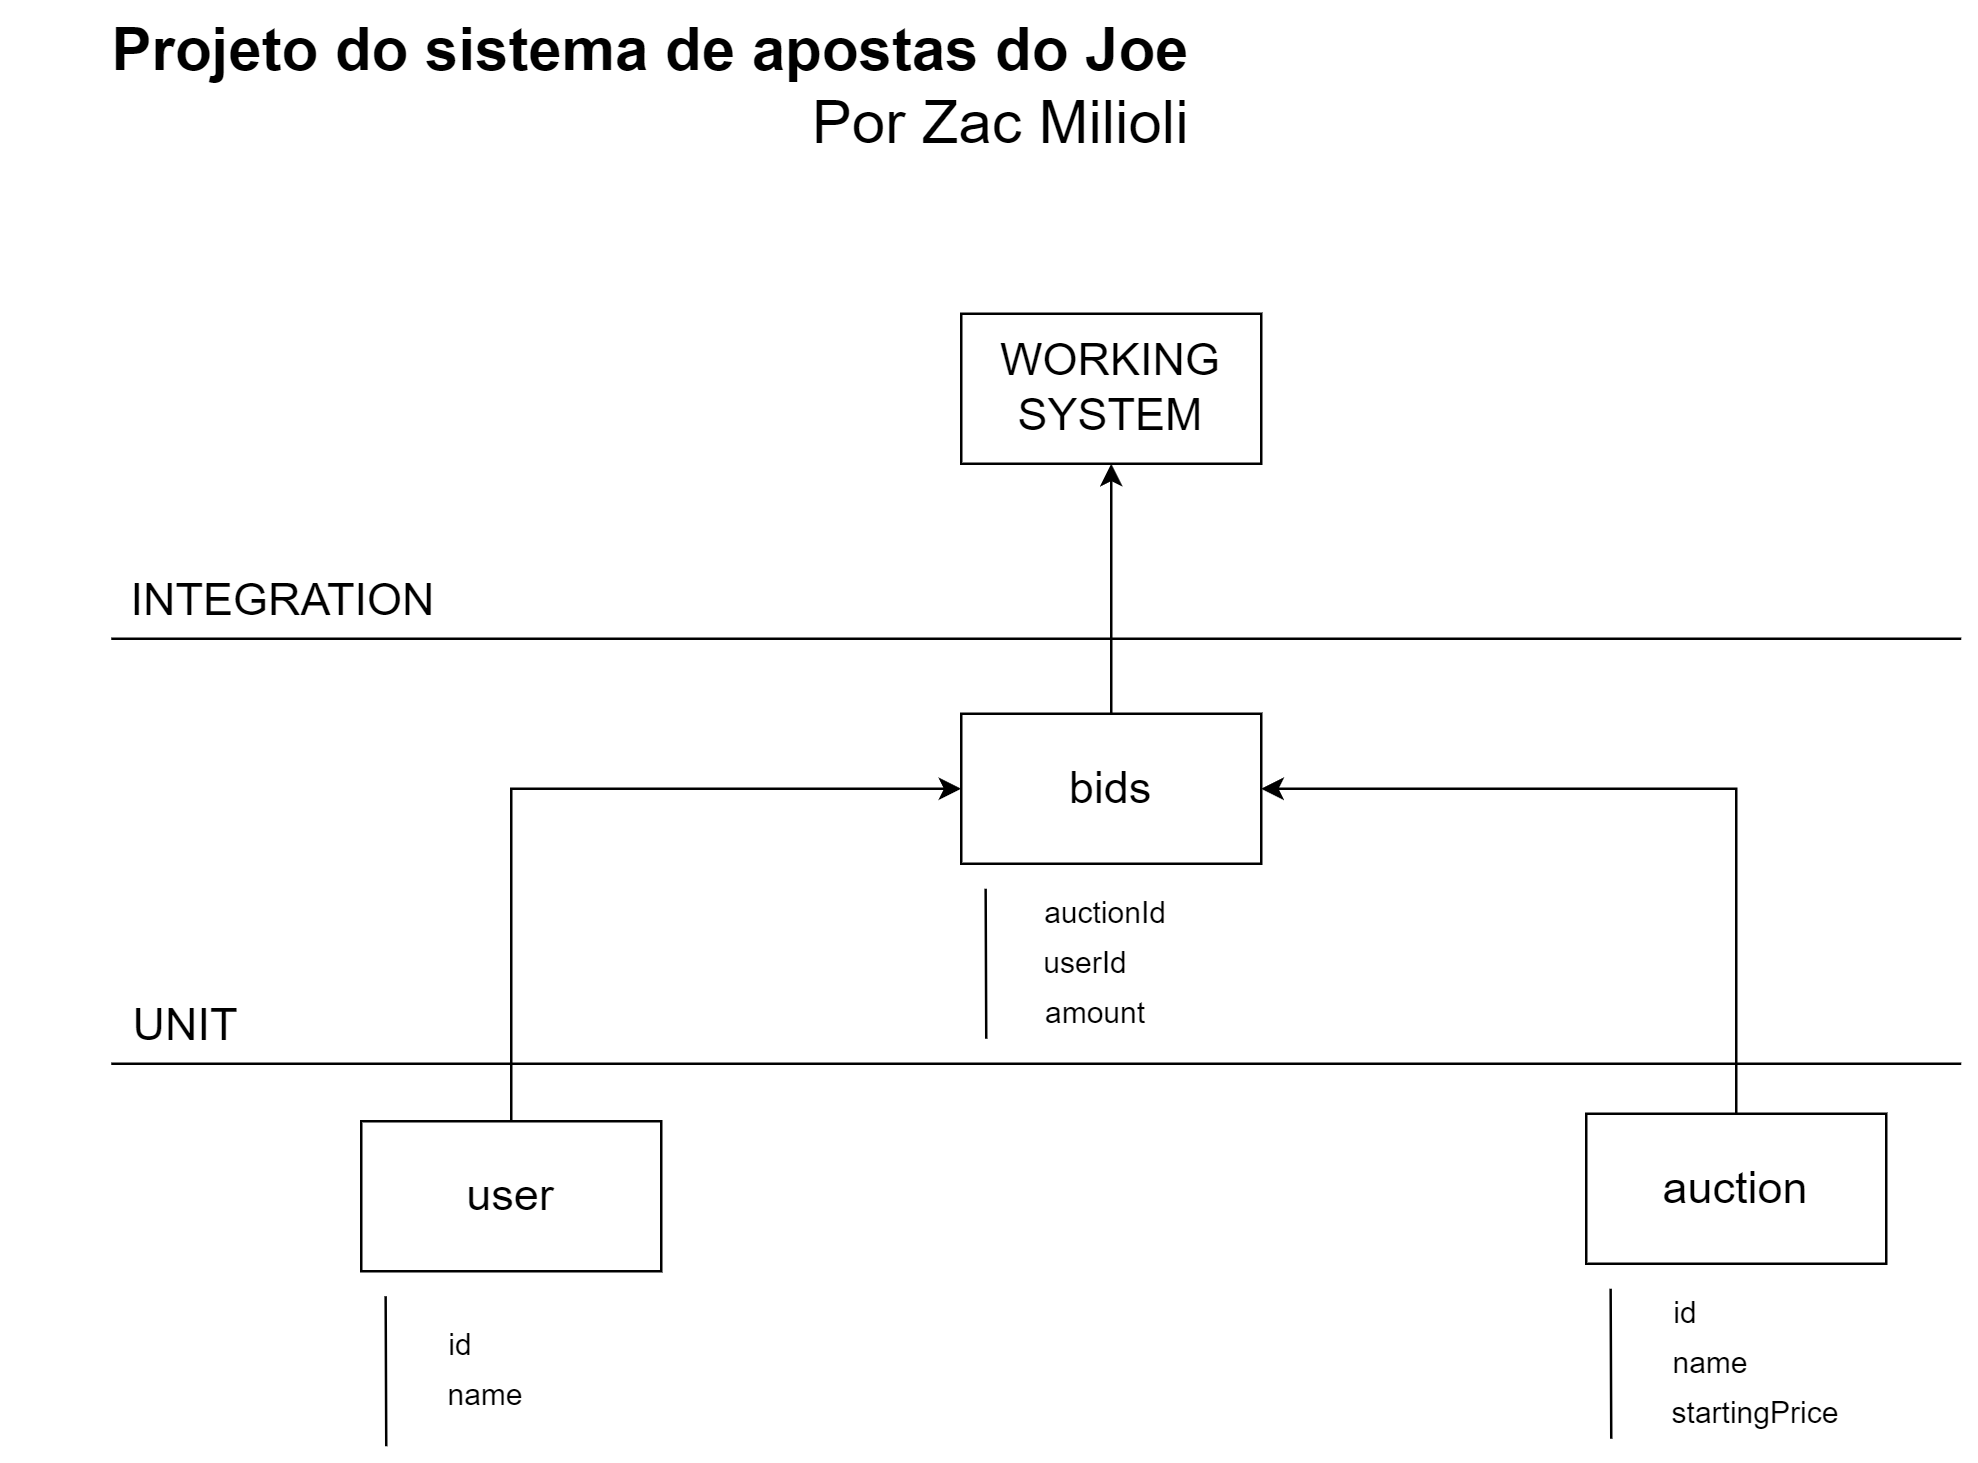
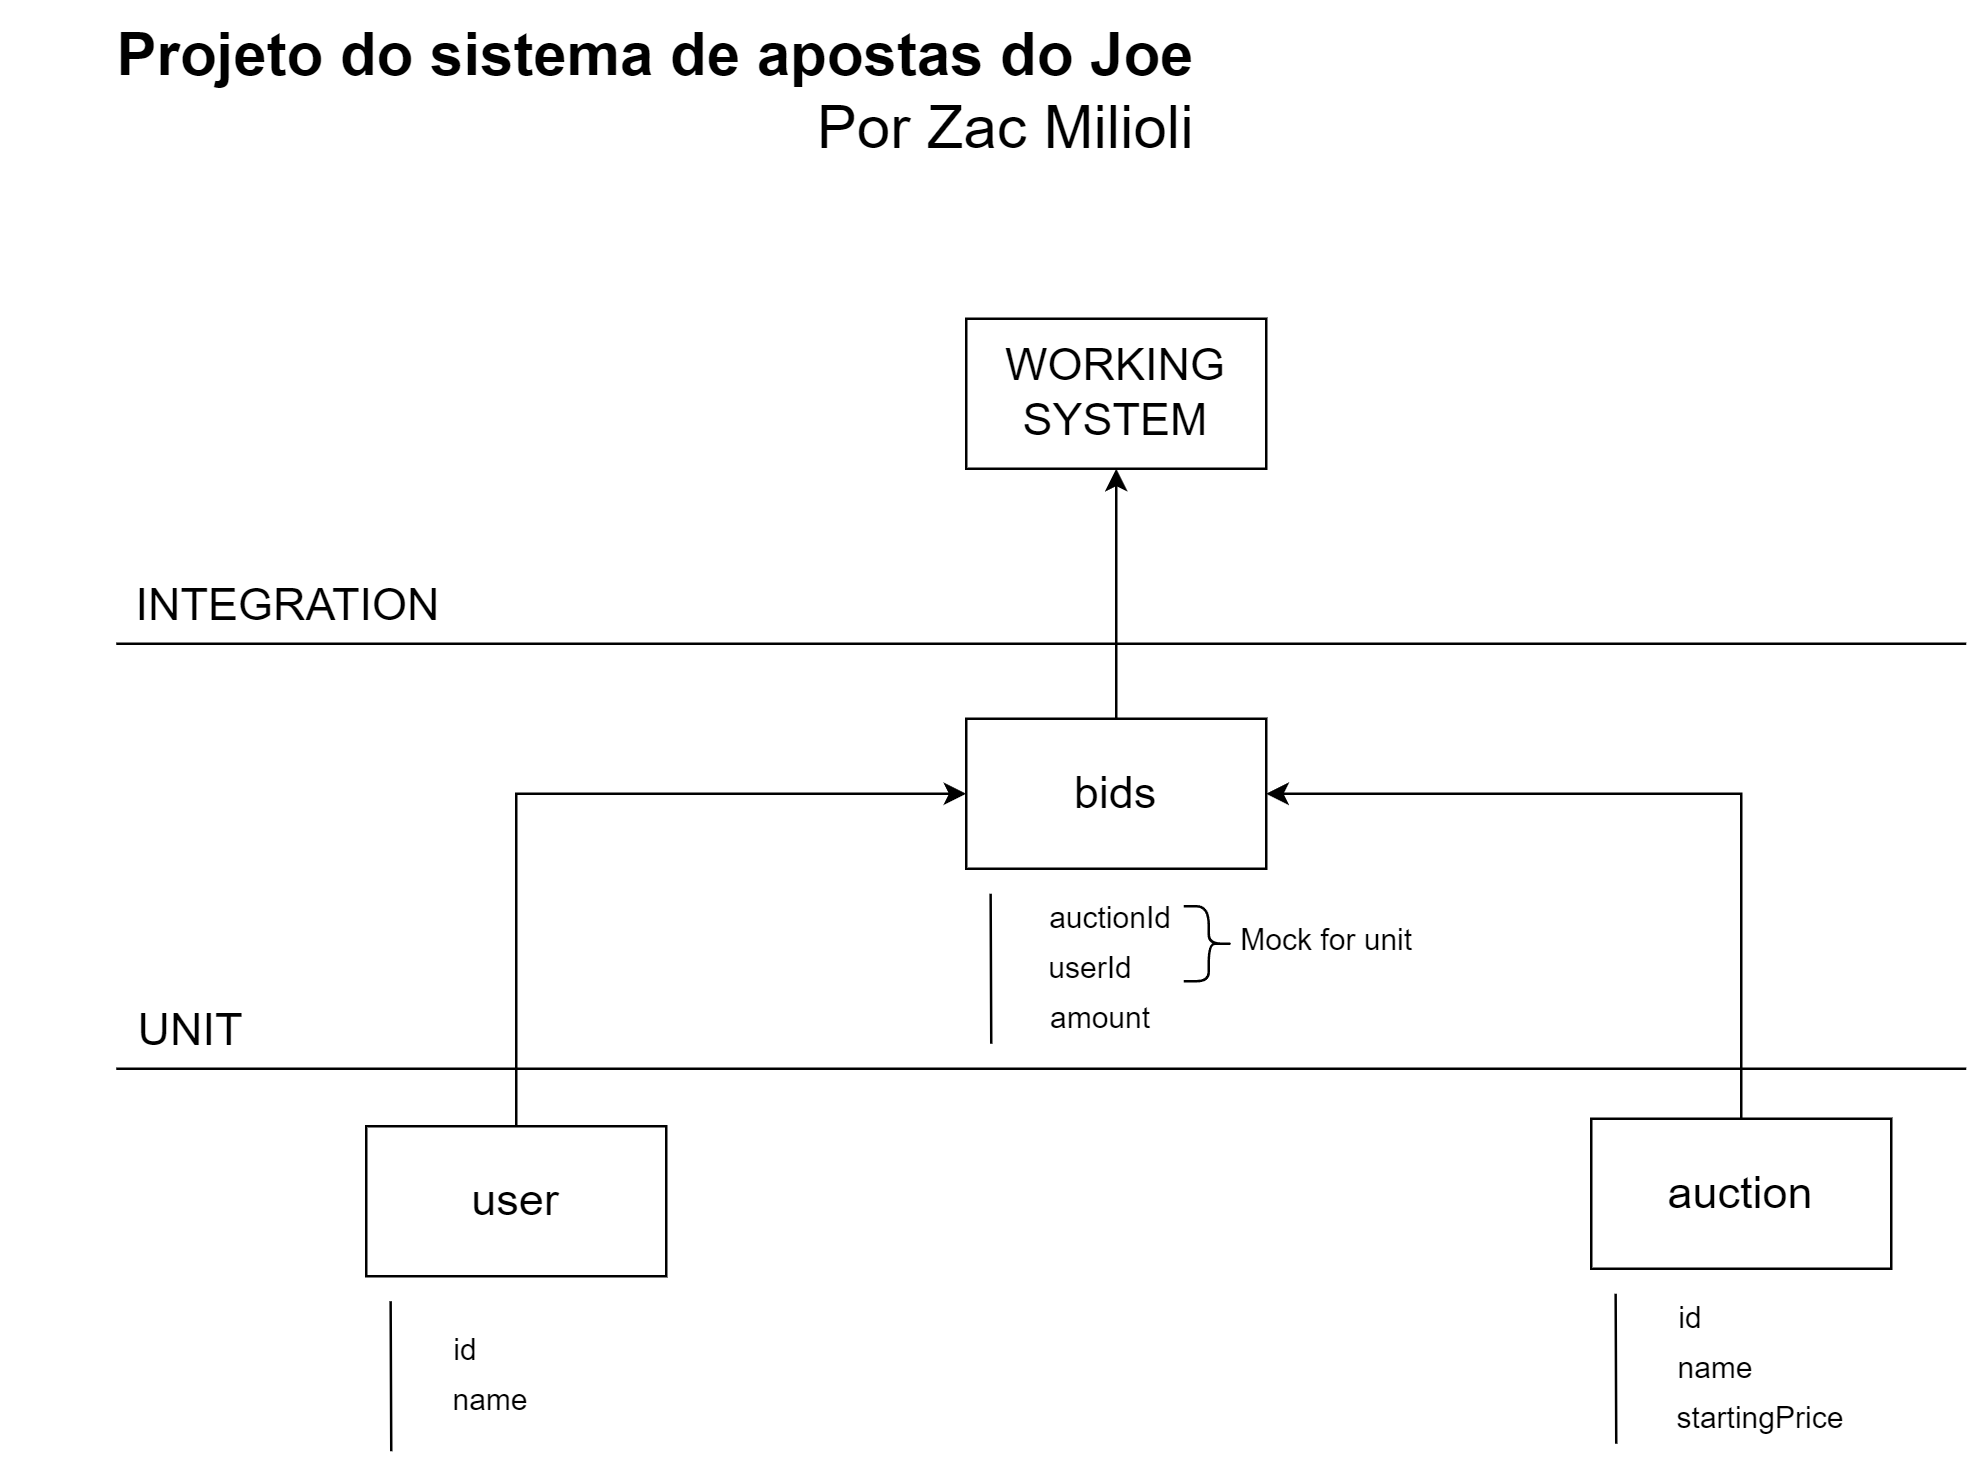
update: base dos testes

diff --git a/tests/integrated/fullAuction.test.js b/tests/integrated/fullAuction.test.js
@@ -1,0 +1,60 @@
+const { addUser, getUserById } = require("../../src/user");
+const { createAuction, getAuctionById, placeBid, getBidsForAuction } = require("../../src/auction");
+
+let users = [];
+let auctions = [];
+let bids = [];
+
+describe("Integration Tests", () => {
+    beforeEach(() => {
+        users.length = 0;
+        auctions.length = 0;
+        bids.length = 0;
+    });
+
+    test("should add a user and create an auction", () => {
+        const user = { id: 1, name: 'Alice' };
+        const auction = { id: 1, name: 'Leilão de arte', startingPrice: 100 };
+
+        addUser(user);
+        createAuction(auction);
+
+        const retrievedUser = getUserById(user.id);
+        const retrievedAuction = getAuctionById(auction.id);
+
+        expect(retrievedUser).toEqual(user);
+        expect(retrievedAuction).toEqual(auction);
+    });
+
+    test("should place a bid successfully", () => {
+        const user = { id: 2, name: 'Bob' };
+        const auction = { id: 1, name: 'Leilão de arte', startingPrice: 100 };
+        const bidAmount = 120;
+
+        addUser(user);
+        createAuction(auction);
+        placeBid(auction.id, user.id, bidAmount);
+
+        const retrievedBids = getBidsForAuction(auction.id);
+
+        expect(retrievedBids).toEqual([{ auctionId: auction.id, userId: user.id, amount: bidAmount }]);
+    });
+
+    // test("should retrieve user, auction, and bids correctly", () => {
+    //     const user = { id: 2, name: 'Bob' };
+    //     const auction = { id: 1, name: 'Leilão de arte', startingPrice: 100 };
+    //     const bidAmount = 120;
+
+    //     addUser(user);
+    //     createAuction(auction);
+    //     placeBid(auction.id, user.id, bidAmount);
+
+    //     const retrievedUser = getUserById(user.id);
+    //     const retrievedAuction = getAuctionById(auction.id);
+    //     const retrievedBids = getBidsForAuction(auction.id);
+
+    //     expect(retrievedUser).toEqual(user);
+    //     expect(retrievedAuction).toEqual(auction);
+    //     expect(retrievedBids).toEqual([{ auctionId: auction.id, userId: user.id, amount: bidAmount }]);
+    // });
+});

diff --git a/tests/unit/bids.test.js b/tests/unit/bids.test.js
@@ -1,0 +1,41 @@
+const { placeBid, getAuctionById, getBidsForAuction } = require("../../src/auction.js");
+
+jest.mock("../../src/auction.js");
+
+const auctionId = 1;
+const userId = 2;
+const amount = 120;
+const startingPrice = 100;
+
+describe("Bids Functions", () => {
+    let auction;
+
+    beforeEach(() => {
+        auction = { id: auctionId, startingPrice };
+        getAuctionById.mockClear();
+        getBidsForAuction.mockClear();
+    });
+
+    test("should place a bid successfully", () => {
+        getAuctionById.mockReturnValue(auction);
+        getBidsForAuction.mockReturnValue([]);
+
+        placeBid(auctionId, userId, amount);
+
+        expect(getAuctionById).toHaveBeenCalledWith(auctionId);
+        expect(getBidsForAuction).toHaveBeenCalledWith(auctionId);
+        expect(getBidsForAuction()).toEqual([{ auctionId, userId, amount }]);
+    });
+
+    test("should throw error if auction not found", () => {
+        getAuctionById.mockReturnValue(undefined);
+
+        expect(() => placeBid(auctionId, userId, amount)).toThrow("Leilão não encontrado.");
+    });
+
+    test("should throw error if bid amount is less than or equal to starting price", () => {
+        getAuctionById.mockReturnValue(auction);
+
+        expect(() => placeBid(auctionId, userId, startingPrice)).toThrow("O valor do lance deve ser maior do que o preço inicial.");
+    });
+});

diff --git a/tests/unit/auction.test.js b/tests/unit/auction.test.js
@@ -1,0 +1,42 @@
+const { createAuction, getAuctionById, getBidsForAuction } = require("../../src/auction.js");
+
+jest.mock("../../src/auction.js");
+
+const auctionId = 1;
+const name = "testAuction";
+const startingPrice = 600;
+
+describe("Auction Functions", () => {
+    beforeEach(() => {
+        createAuction.mockClear();
+        getAuctionById.mockClear();
+        getBidsForAuction.mockClear();
+    });
+
+    test("should create an auction", () => {
+        const auction = { id: auctionId, name, startingPrice };
+        createAuction(auction);
+
+        expect(createAuction).toHaveBeenCalledWith(auction);
+    });
+
+    test("should get an auction by id", () => {
+        const auction = { id: auctionId, name, startingPrice };
+        getAuctionById.mockReturnValue(auction);
+
+        const retrievedAuction = getAuctionById(auctionId);
+        expect(retrievedAuction).toEqual(auction);
+    });
+
+    test("should get bids for auction using mock", () => {
+        const mockBids = [
+            { auctionId, userId: 1, amount: 700 },
+            { auctionId, userId: 2, amount: 800 }
+        ];
+
+        getBidsForAuction.mockReturnValue(mockBids);
+
+        const bids = getBidsForAuction(auctionId);
+        expect(bids).toEqual(mockBids);
+    });
+});

diff --git a/tests/unit/user.test.js b/tests/unit/user.test.js
@@ -1,0 +1,11 @@
+const { addUser, getUserById } = require("../../src/user.js");
+
+const id = 1;
+const name = "testUser";
+
+test("should create and return a user", () => {
+    const user = { id, name };
+    addUser(user);
+    const returnedUser = getUserById(id);
+    expect(returnedUser).toEqual(user);
+});
